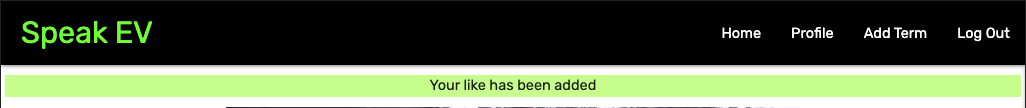
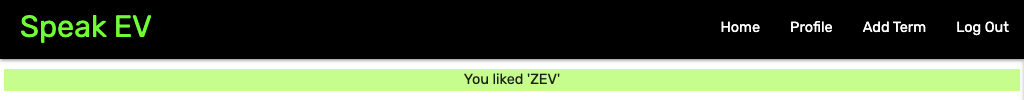
Docs: added new image to testing.md

diff --git a/app.py b/app.py
@@ -219,7 +219,7 @@ def like(term_id):
                 {"_id": ObjectId(term_id)},
                 {"$pull": {"like": user["_id"]}}
             )
-            flash("Your like has been removed")
+            flash("You un-liked '" + str(term["term_name"]) + "'")
             return redirect(url_for('get_terms'))
 
         else:
@@ -235,7 +235,7 @@ def like(term_id):
                 {"$addToSet": {"like": user["_id"]}},
                 {"upsert": "true"}
             )
-            flash("Your like has been added")
+            flash("You liked '" + str(term["term_name"]) + "'")
             return redirect(url_for('get_terms'))
 
     else:
@@ -263,7 +263,7 @@ def dislike(term_id):
                 {"_id": ObjectId(term_id)},
                 {"$pull": {"dislike": user["_id"]}}
             )
-            flash("Your dislike has been removed")
+            flash("You removed your '" + str(term["term_name"]) + "' dislike")
             return redirect(url_for('get_terms'))
 
         else:
@@ -279,7 +279,7 @@ def dislike(term_id):
                 {"$addToSet": {"dislike": user["_id"]}},
                 {"upsert": "true"}
             )
-            flash("You dislike has been added")
+            flash("You disliked '" + str(term["term_name"]) + "'")
             return redirect(url_for('get_terms'))
 
     else:

diff --git a/TESTING.md b/TESTING.md
@@ -139,6 +139,8 @@
 
 &nbsp;
 
+[Back to top &uarr;](#testing)
+
 ## Features
 
 ### Navbar
